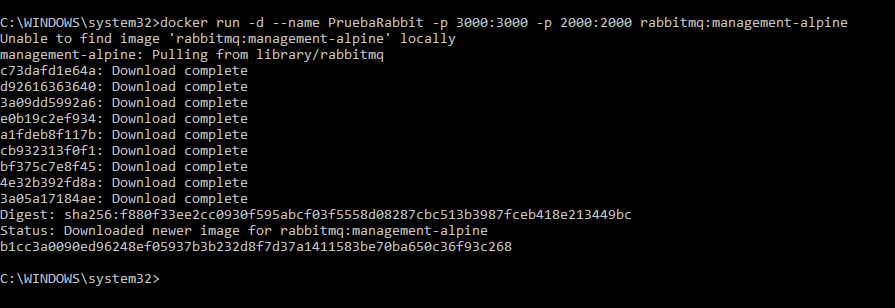
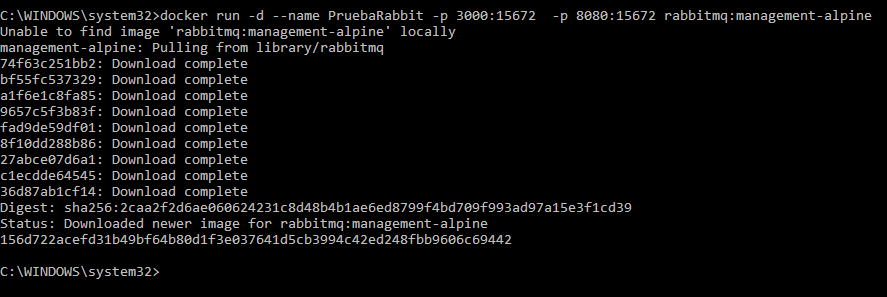
Cuarto avance

Changed region(s): [[0.0, 0.0303, 1.0, 0.8182], [0.0, 0.8788, 0.1826, 0.9394]]

diff --git a/5-mi-aprendizaje.md b/5-mi-aprendizaje.md
@@ -1,3 +1,14 @@
 # COMPLETAR  
 Comparando sus conocimientos antes de hacer la práctica con sus conocimientos después de hacer la tarea, explicar los principales aprendizajes logrados para beneficio de su formación profesional.  
 Si solucionó un problema presentado al realizar la práctica también se debe documentar.
+
+---
+
+Antes de realizar esta práctica, tenía un conocimiento básico sobre Docker, especialmente sobre lo que es un contenedor y una imagen.
+A través de la práctica, aprendí cómo descargar imágenes, crear y gestionar contenedores. El uso de comandos como **docker pull, docker run, y docker ps** me permitió explorar el ciclo de vida completo de un contenedor.
+
+El proceso de inspeccionar imágenes y contenedores con **docker inspect** fue especialmente útil para entender cómo Docker maneja los identificadores y la configuración interna de los contenedores. También aprendí sobre el uso del **algoritmo SHA-256** para generar los identificadores únicos.
+
+Uno de los puntos clave de la práctica del mapeo de puertos, antes de la práctica, no estaba claro cómo interactuarían los contenedores con la red del host. Ahora entiendo cómo hacer que los servicios dentro de un contenedor, como Nginx, sean accesibles desde mi máquina, lo cual sera importante para desarrollar y desplegar aplicaciones web.
+
+Tuve un problema cuando ejecuté Nginx en primer plano, lo que bloqueó el terminal. Aprendí que al agregar el flag **-d**, el contenedor se ejecuta en segundo plano, permitiéndome continuar trabajando sin interrumpir el servidor.

diff --git a/4-mapeo-puertos.md b/4-mapeo-puertos.md
@@ -26,9 +26,9 @@ docker run -d --name <nombre contenedor> -p <puerto host 01>:<puerto contenedor 
 ```
 
 Crear un contenedor a partir de la imagen rabbitmq version management-alpine, para este mapeo de puertos usar en el host los mismos puertos del contenedor.
-# COMPLETAR
 ```
 docker run -d --name PruebaRabbit -p 3000:15672  -p 8080:15672 rabbitmq:management-alpine
 ```
 
 ![mapeoP2](img/mapeoPuertos2.PNG)
+![mapeoP2.1](img/dockerRabbitMQ.PNG)
